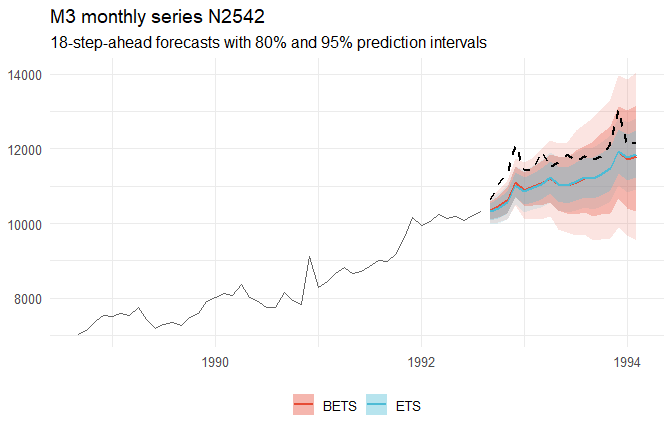
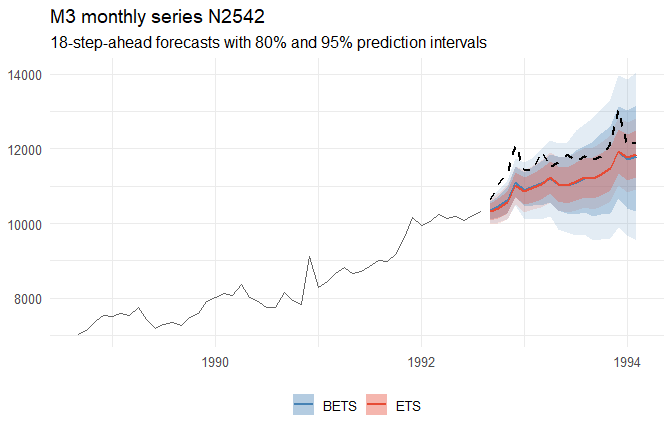
updated readme

Changed region(s): [[0.7188, 0.2407, 0.9688, 0.5116], [0.5312, 0.9028, 0.5938, 0.963], [0.4375, 0.9028, 0.4688, 0.963]]

diff --git a/README.md b/README.md
@@ -46,7 +46,57 @@ The package contains C++ code: installing it from GitHub requires a
 compiler (Rtools on Windows, the Xcode command line tools on macOS, a
 C++ compiler on Linux).
 
-## Example: M3 monthly series
+## Basic usage
+
+`bets()` fits the ETS models to a time series and combines them by BMA;
+`predict()` computes the forecasts.
+
+``` r
+library(BayesETS)
+set.seed(123)   # the fit and the forecasts use random draws
+
+fit <- bets(USAccDeaths)   # monthly accidental deaths in the USA, 1973-1978
+print(fit)  # for each model, show weight and posterior means of its parameters
+#> BETS model fit
+#>   call: bets(y = USAccDeaths)
+#>   length of the series: 72
+#>   frequency: 12
+#>   combination: Bayesian Model Averaging
+#> 
+#>   Model weights and posterior means of the parameters:
+#> 
+#>   model  weight  alpha   beta    phi  gamma  sigma
+#>   ANA     0.814  0.551      -      -  0.255  308.5
+#>   AAdA    0.148  0.535  0.049  0.880  0.244  309.6
+#>   AAA     0.038  0.567  0.039      -  0.236  312.2
+#>   (weight < 0.001: ANN, AAN, AAdN)
+#> 
+#>   Posterior probability of trend: 0.19, damped trend: 0.15, seasonality: 1.00
+
+fc <- predict(fit, h = 12)   # 80% and 95% prediction intervals by default
+print(fc)
+#>          Point Forecast     Lo 80     Hi 80    Lo 95     Hi 95
+#> Jan 1979       8301.766  7881.922  8716.267 7689.171  8967.764
+#> Feb 1979       7546.384  7091.786  8027.522 6829.061  8281.420
+#> Mar 1979       8349.965  7849.881  8864.435 7596.950  9184.256
+#> Apr 1979       8590.429  8035.455  9168.001 7729.537  9445.045
+#> May 1979       9426.844  8830.162 10030.944 8501.737 10389.267
+#> Jun 1979       9818.899  9144.074 10474.138 8776.390 10868.761
+#> Jul 1979      10786.722 10162.419 11433.339 9744.499 11793.567
+#> Aug 1979       9958.223  9203.702 10664.917 8836.971 11027.103
+#> Sep 1979       9004.657  8267.894  9770.697 7821.702 10223.417
+#> Oct 1979       9247.677  8476.658 10052.002 7950.219 10525.371
+#> Nov 1979       8805.281  7970.547  9643.714 7484.997 10109.968
+#> Dec 1979       9219.098  8315.700 10049.489 7804.549 10641.805
+
+plot(fc)
+```
+
+<img src="man/figures/README-basic-fit-1.png" alt="" width="100%" />
+
+## Comparison with `forecast::ets()`
+
+### Example: M3 monthly series
 
 We fit `bets()` and `ets()` (from the forecast package) to a monthly
 series of the M3 competition, and compare the fitted models and their
@@ -57,15 +107,11 @@ probabilities; within each model, it integrates over the posterior of
 the parameters.
 
 ``` r
-library(BayesETS)
 library(forecast)   # for comparison with ets()
 library(Mcomp)      # M3 competition data
 library(ggplot2)    # for plot
-
 set.seed(123)
-```
 
-``` r
 series  <- M3[["N2542"]]
 y_train <- series$x
 y_test  <- series$xx
@@ -74,50 +120,6 @@ h       <- length(y_test)
 # Fit the models
 bets_fit <- bets(y_train, additive.only = TRUE)
 ets_fit  <- ets(y_train, additive.only = TRUE)
-```
-
-### Fitted models
-
-The print methods summarise the two fits:
-
-``` r
-print(ets_fit)   
-#> ETS(A,A,A) 
-#> 
-#> Call:
-#> ets(y = y_train, additive.only = TRUE)
-#> 
-#>   Smoothing parameters:
-#>     alpha = 0.644 
-#>     beta  = 1e-04 
-#>     gamma = 1e-04 
-#> 
-#>   Initial states:
-#>     l = 3195.5107 
-#>     b = 75.2202 
-#>     s = 313.7041 -77.6393 -157.02 -175.1816 -95.0358 -120.3575
-#>            -140.7705 -33.6367 213.9919 109.4593 93.6201 68.8661
-#> 
-#>   sigma:  172.9557
-#> 
-#>      AIC     AICc      BIC 
-#> 1571.474 1578.591 1616.429
-
-print(bets_fit)
-#> BETS model fit
-#>   call: bets(y = y_train, additive.only = TRUE)
-#>   length of the series: 104
-#>   frequency: 12
-#>   combination: Bayesian Model Averaging
-#> 
-#>   Model weights and posterior means of the parameters:
-#> 
-#>   model  weight  alpha   beta    phi  gamma  sigma
-#>   AAA     0.670  0.602  0.058      -  0.098  170.5
-#>   AAdA    0.329  0.486  0.187  0.903  0.100  172.3
-#>   (weight < 0.001: ANN, AAN, AAdN, ANA)
-#> 
-#>   Posterior probability of trend: 1.00, damped trend: 0.33, seasonality: 1.00
 ```
 
 **Models.** `ets()` selects a single model by AICc, while `bets()`
@@ -160,7 +162,7 @@ post
 ```
 
 We can also visualise the posterior distributions of the parameters
-using `plot()`, (includes shaded 95% credible interval and dashed
+using `plot()` (includes shaded 95% credible interval and dashed
 posterior mean):
 
 ``` r
@@ -170,61 +172,38 @@ plot(bets_fit, models = "AAA")   # run plot(bets_fit) to see all models with non
 <img src="man/figures/README-posterior-1.png" alt="" width="100%" />
 
 The posterior distribution quantifies the uncertainty around the
-parameter estimates. For example, `ets()` estimates $\alpha$ = 0.64,
-while the 95% credible interval of `bets()` goes from 0.45 to 0.77.
+parameter estimates. For example, `ets()` estimates $\hat\alpha$ = 0.64,
+while the 95% credible interval of `bets()` goes from 0.45 to 0.77;
 `bets()` carries this uncertainty into the forecasts.
 
-### Forecasts
-
-Forecasts are obtained with `predict()`, by simulating future
-trajectories.
+**Forecasts.** We compute the forecasts of both models over the test
+set:
 
 ``` r
 bets_fc <- predict(bets_fit, h = h, level = c(80, 95))
 ets_fc  <- forecast(ets_fit, h = h, level = c(80, 95))
-
-bets_fc
-#>          Point Forecast    Lo 80    Hi 80     Lo 95    Hi 95
-#> Sep 1992       10348.41 10120.53 10584.05 10005.313 10730.18
-#> Oct 1992       10445.74 10152.59 10724.37 10021.855 10889.51
-#> Nov 1992       10622.29 10272.20 10976.90 10118.067 11150.25
-#> Dec 1992       11099.93 10712.85 11527.76 10477.252 11754.82
-#> Jan 1993       10892.65 10445.83 11373.78 10107.624 11623.88
-#> Feb 1993       10986.59 10491.50 11524.47 10109.697 11779.04
-#> Mar 1993       11078.16 10484.53 11655.58 10120.838 11988.42
-#> Apr 1993       11199.94 10558.13 11849.94 10193.573 12222.10
-#> May 1993       11055.64 10358.38 11784.70  9828.543 12136.87
-#> Jun 1993       11015.49 10267.13 11760.91  9752.892 12163.85
-#> Jul 1993       11102.00 10254.18 11960.52  9691.037 12481.32
-#> Aug 1993       11211.86 10295.76 12076.58  9718.016 12663.26
-#> Sep 1993       11217.74 10201.11 12197.59  9553.297 12851.02
-#> Oct 1993       11301.99 10240.13 12402.02  9559.822 13048.75
-#> Nov 1993       11466.51 10256.57 12597.57  9593.633 13322.55
-#> Dec 1993       11927.56 10682.51 13130.53  9895.618 13973.63
-#> Jan 1994       11724.55 10392.43 13035.97  9675.835 13872.25
-#> Feb 1994       11794.58 10328.25 13151.88  9548.734 14060.26
 ```
 
-Finally, we plot the last years of the series with the forecasts of both
-models (80% and 95% prediction intervals) and the observed test set
-(dashed). The intervals of `bets()` are larger, as they account for the
+We plot the last years of the series with the forecasts of both models
+(80% and 95% prediction intervals) and the observed test set (dashed).
+The intervals of `bets()` are larger, as they account for the
 uncertainty on the parameters and on the model, while those of `ets()`
 are conditional on the estimates of the selected model.
 
 <img src="man/figures/README-plot-1.png" alt="" width="100%" />
 
-## Benchmark
+### Benchmark on the M3 data
 
 We compare `bets()` and `ets()` (additive models only) on all the
-yearly, quarterly and monthly series of the M3 data (2829 series), with
-the M3 test sets (horizons 6, 8 and 18):
+yearly, quarterly and monthly series of the M3 dataset (2829 series),
+with the M3 test sets (horizons 6, 8 and 18):
 
-- **MASE**: mean absolute error of the point forecasts, scaled by the
-  in-sample mean absolute error of the seasonal naive forecast;
-- **Coverage** of the 80% and 95% prediction intervals;
+- **MASE**: mean absolute error (MAE) of the point forecasts, scaled by
+  the in-sample MAE of the seasonal naive forecast;
 - **MSIS**: interval score of the 95% intervals, with the same scaling
   (lower is better);
-- **Time**: seconds per series (includes both fit and forecast).
+- **Coverage** of the 80% and 95% prediction intervals;
+- **Time**: average time per series (includes both fit and forecast).
 
 <table>
 <thead><tr><th>Period (series)</th><th>Method</th><th>MASE</th><th>Coverage 80%</th>
@@ -239,7 +218,8 @@ the M3 test sets (horizons 6, 8 and 18):
 </tbody>
 </table>
 
-The script is in [`benchmark/m3_benchmark.R`](https://github.com/LorenzoZambon/BayesETS/blob/main/benchmark/m3_benchmark.R).
+The script is in
+[`benchmark/m3_benchmark.R`](https://github.com/LorenzoZambon/BayesETS/blob/main/benchmark/m3_benchmark.R).
 
 ## Current limitations
 
